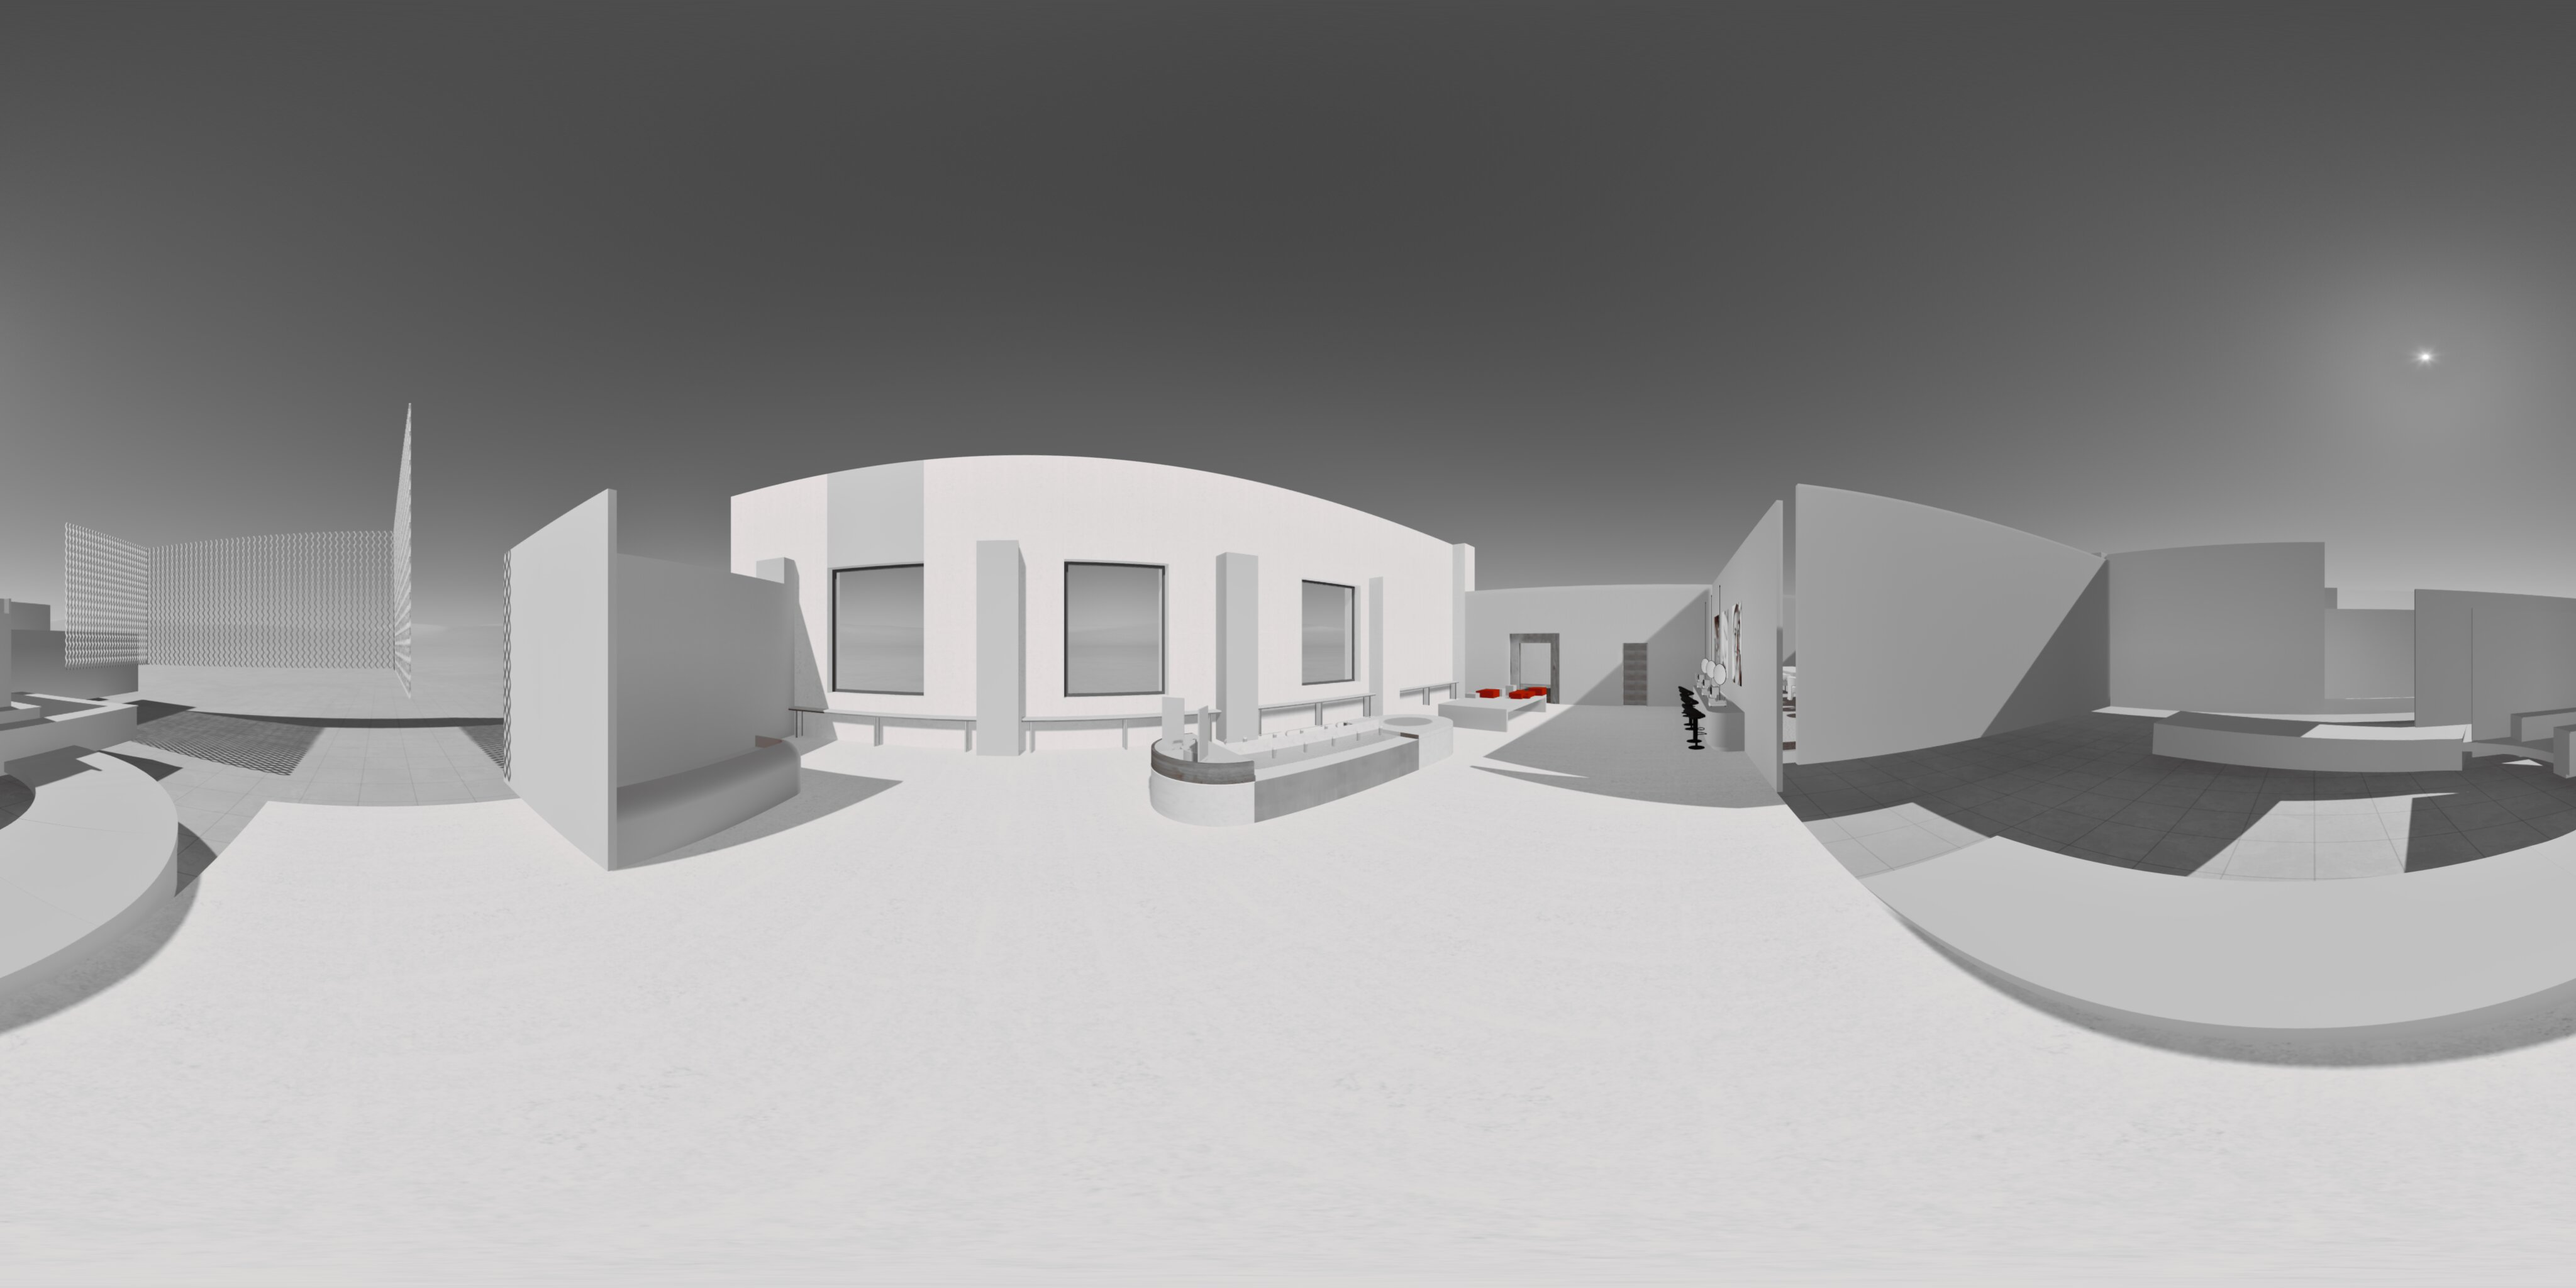
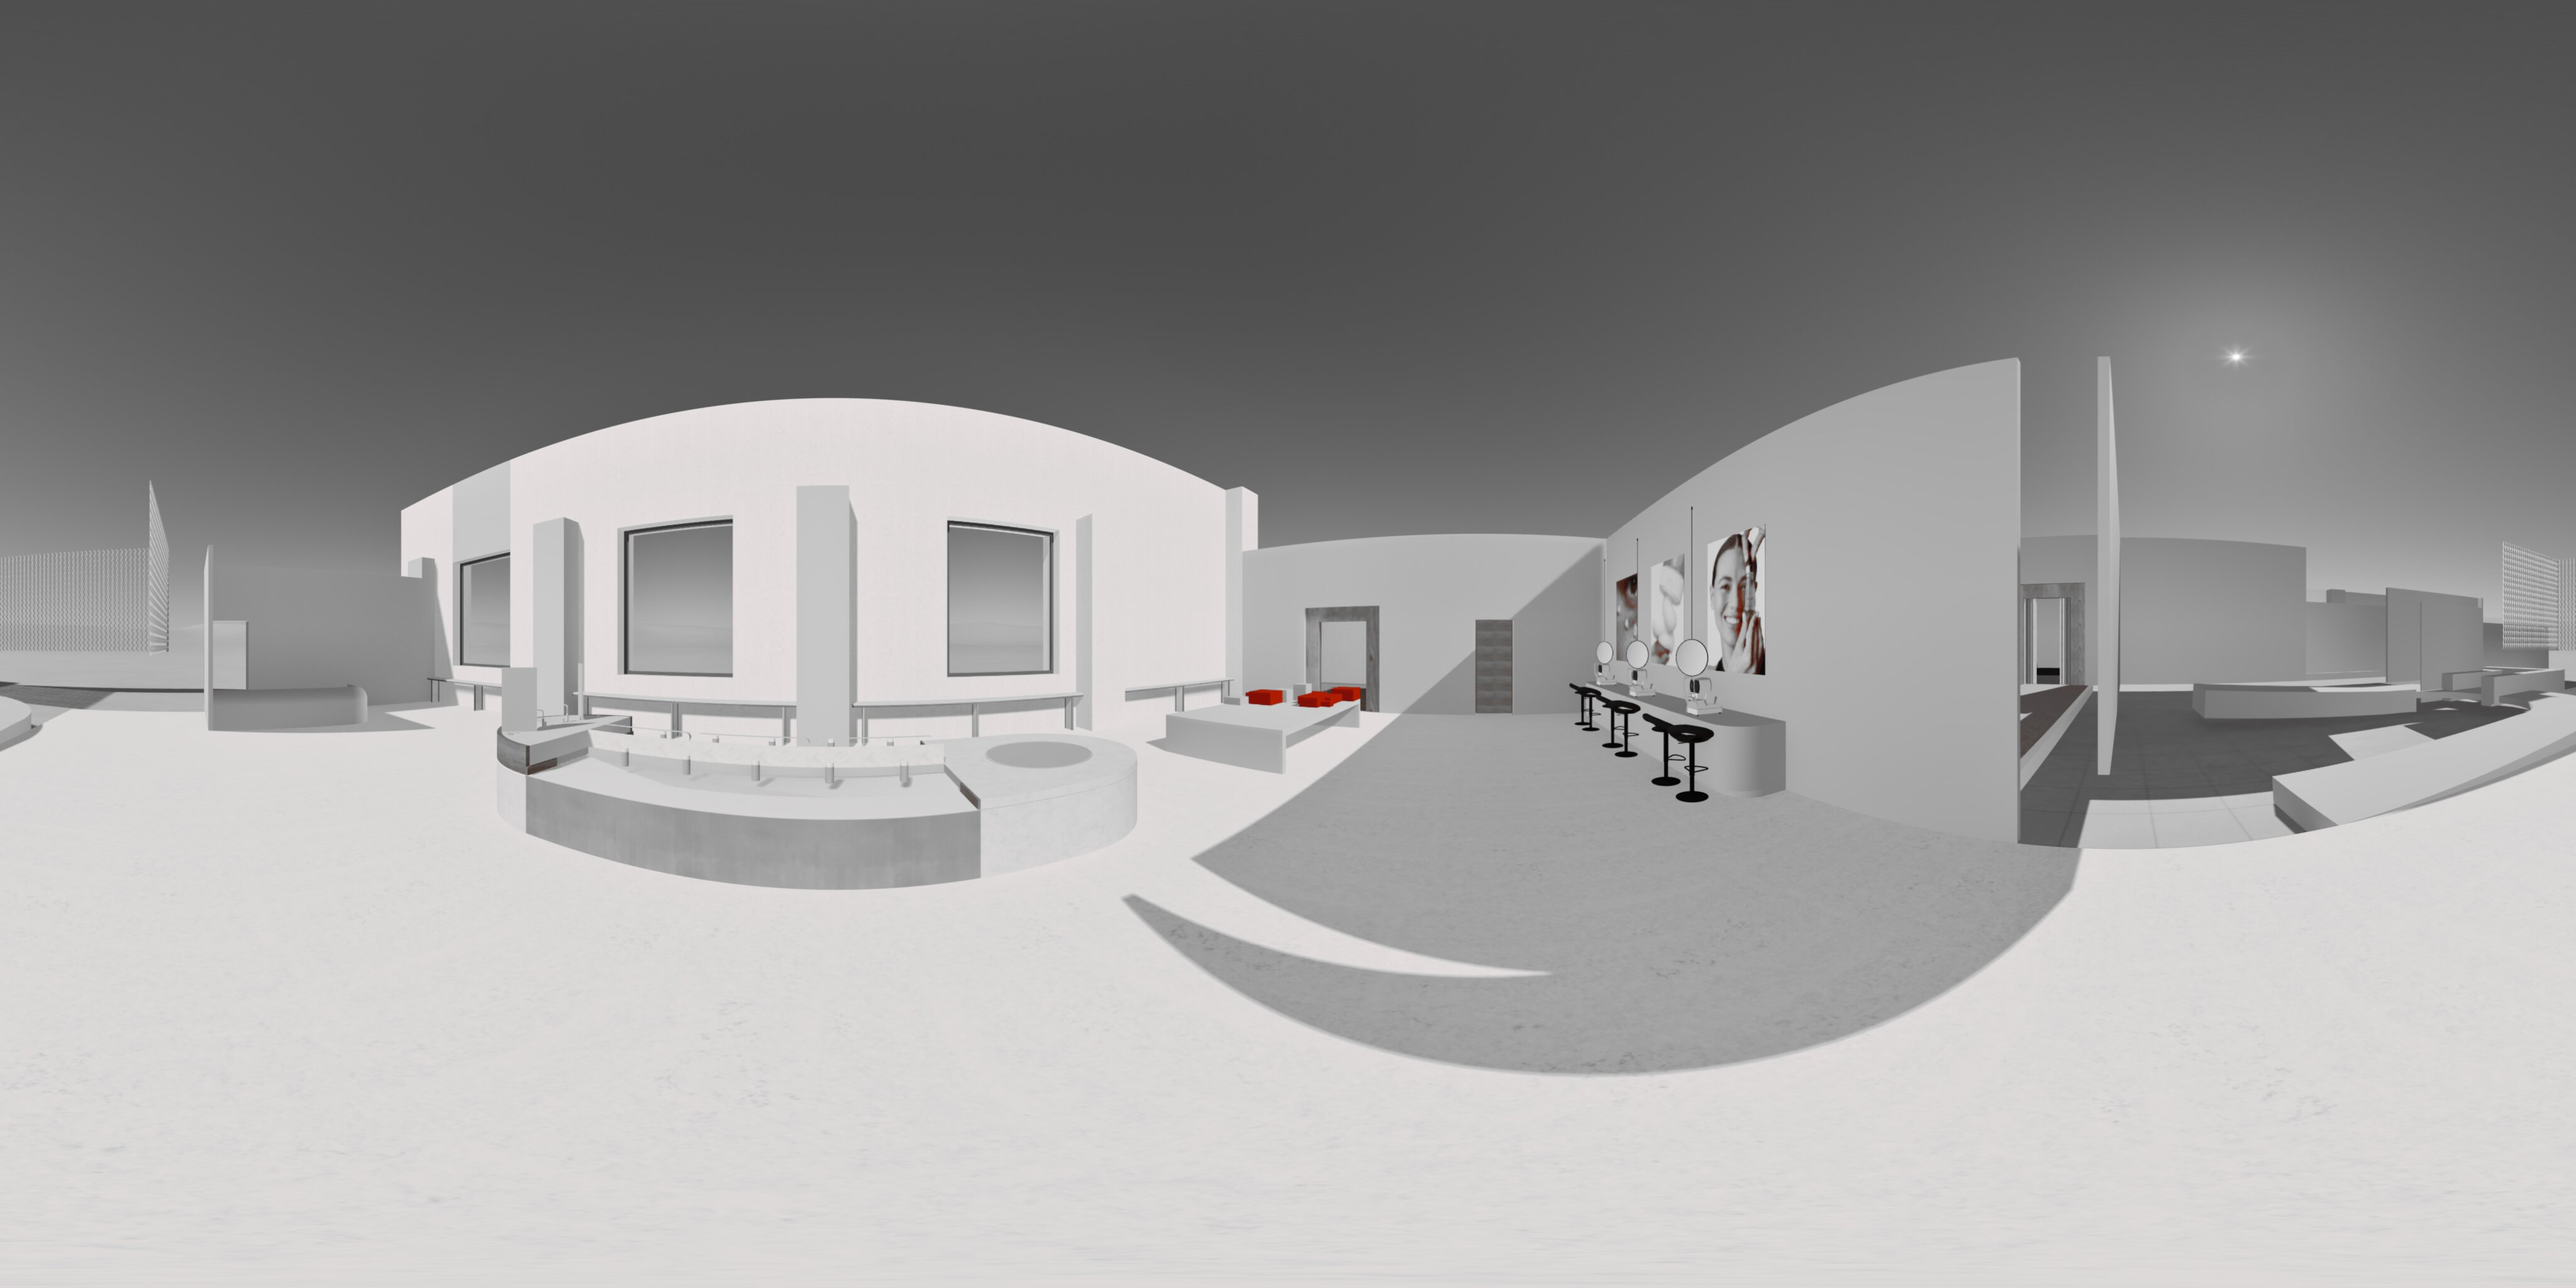
Add files via upload

Changed region(s): [[0.0, 0.2188, 1.0, 0.8438], [0.9375, 0.25, 0.9688, 0.3125]]

diff --git a/index.html b/index.html
@@ -16,7 +16,7 @@
       scenes: {
         scene1: {
           title: 'Pièce 1',
-          panorama: 'Panorama1.jpg',
+          panorama: 'Panorama1',
           autoLoad: true,
 	  hotSpotDebug: true,
           hotSpots: [
@@ -31,13 +31,13 @@
         },
         scene2: {
           title: 'Pièce 2',
-          panorama: 'Panorama2.jpg',
+          panorama: 'Panorama2',
           autoLoad: true,
 	  hotSpotDebug: true,
           hotSpots: [
             {
-              pitch: -22,
-              yaw: 51,
+              pitch: -10,
+              yaw: -130,
               type: 'scene',
               sceneId: 'scene1',
               text: 'Retour pièce 1'
